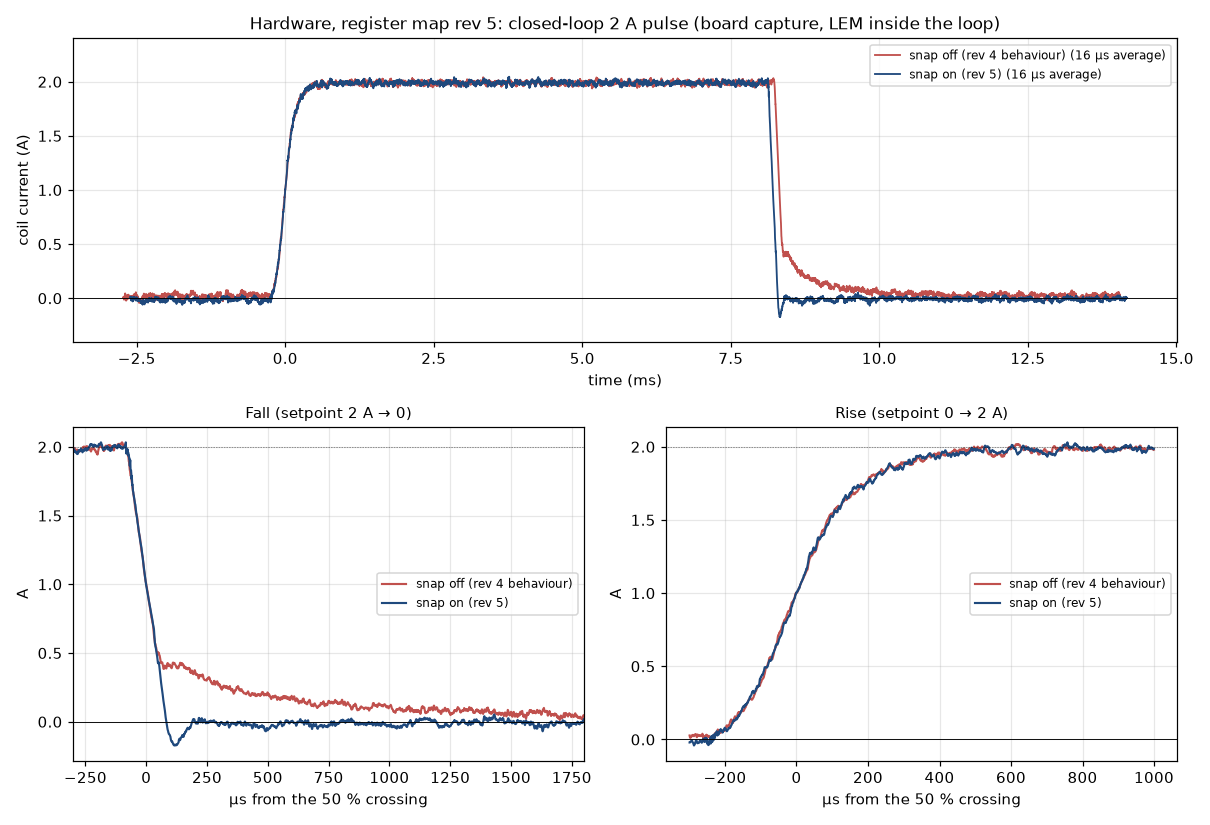
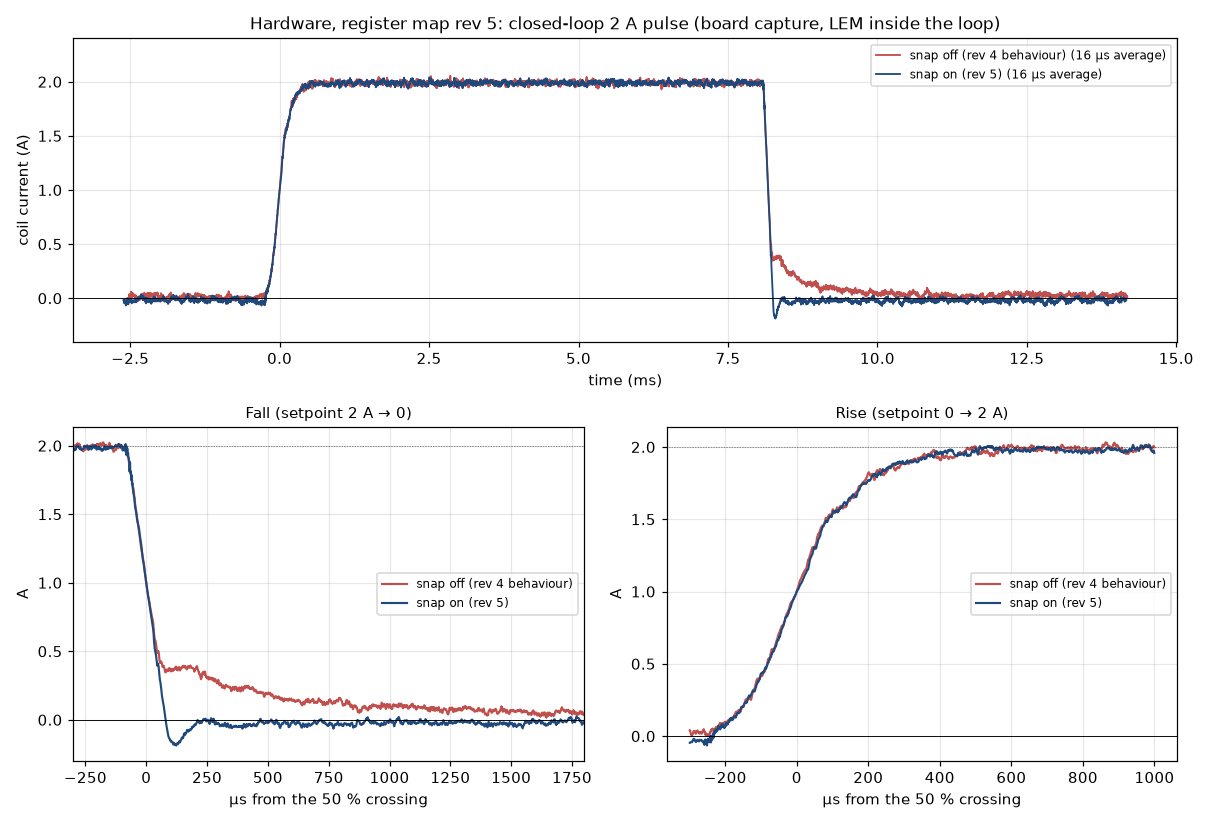
Rev 5 re-test after a power cycle; IN2 noise vs the snap threshold; re-zeroed offsets

diff --git a/docs/benchtop_test_log.md b/docs/benchtop_test_log.md
@@ -494,7 +494,9 @@ Coil current only; the field at the atoms also waits for chamber eddy currents (
 
 **Other checks on the hardware:** setpoint 0 and 2 counts (55 mA) → snapped on every read; 10 counts (0.27 A) → not snapped, the loop holds 0.275 A; analog IN2 path at 0 V → snapped on 3000/3000 reads (no chatter); snap switched off → OUT1 back on the PI floor.
 
-**To watch:** IN2 read −3 counts after its offset correction (its zero drifts), only 1 count inside the 4-count threshold. Measure IN2 noise and drift with the control computer connected and set `snap_zero_amps` from that. Timing margin of this build is thin (+3 ps); check it on the next firmware change.
+**Re-test after a Red Pitaya power cycle (redeploy, re-zero):** same results (fall to 2 % in 0.14 ms with the snap, 1.31 ms without; checks pass). **IN2 noise at 0 V:** 4.1 counts rms per sample, but the 1 µs averages the snap uses have sd 0.43 counts and never exceeded +2.45 counts in 2560 ticks (threshold 4): about 1.5 counts of margin with the input terminated.
+
+**To watch:** single status reads of IN2 swing ±5 counts (per-sample noise). Measure IN2 noise and drift with the control computer connected and set `snap_zero_amps` from that. Timing margin of this build is thin (+3 ps); check it on the next firmware change.
 
 ## Open items
 

diff --git a/docs/lab_notes_2026-11.md b/docs/lab_notes_2026-11.md
@@ -613,3 +613,14 @@ bridge-open fast turn-off that needs the TVS + blocking diode.
   counts after the offset correction, only 1 count inside the threshold:
   measure IN2 noise and drift with the control computer connected and set
   `snap_zero_amps` from it; `snap_enable` 0 → OUT1 back on the PI floor.
+- **Re-test after a Red Pitaya power cycle** (redeploy, latch reset,
+  re-zero IN1 +0.237 A / IN2 +0.150 A): 2 A pulse, fall to 2 % in 1.31 ms
+  (snap off) vs 0.14 ms (snap on), rise unchanged, undershoot −0.19 A;
+  threshold / IN2 / off checks pass again (0.27 A held at 0.272 A).
+- **IN2 noise at 0 V** (terminated input, 20 raw 131 µs captures over
+  20 s, after the offset correction): 4.1 counts rms per sample (why single
+  STS reads of `sp_active` show ±5), but the 1 µs averages the snap uses
+  have sd 0.43 counts, mean +0.75 (the integer offset register leaves
+  ~0.7), max +2.45 — none of 2560 above the 4-count threshold. Margin
+  ≈ 1.5 counts to engage, 2.5 to release. Re-measure with the control
+  computer driving IN2 before Test 4.
